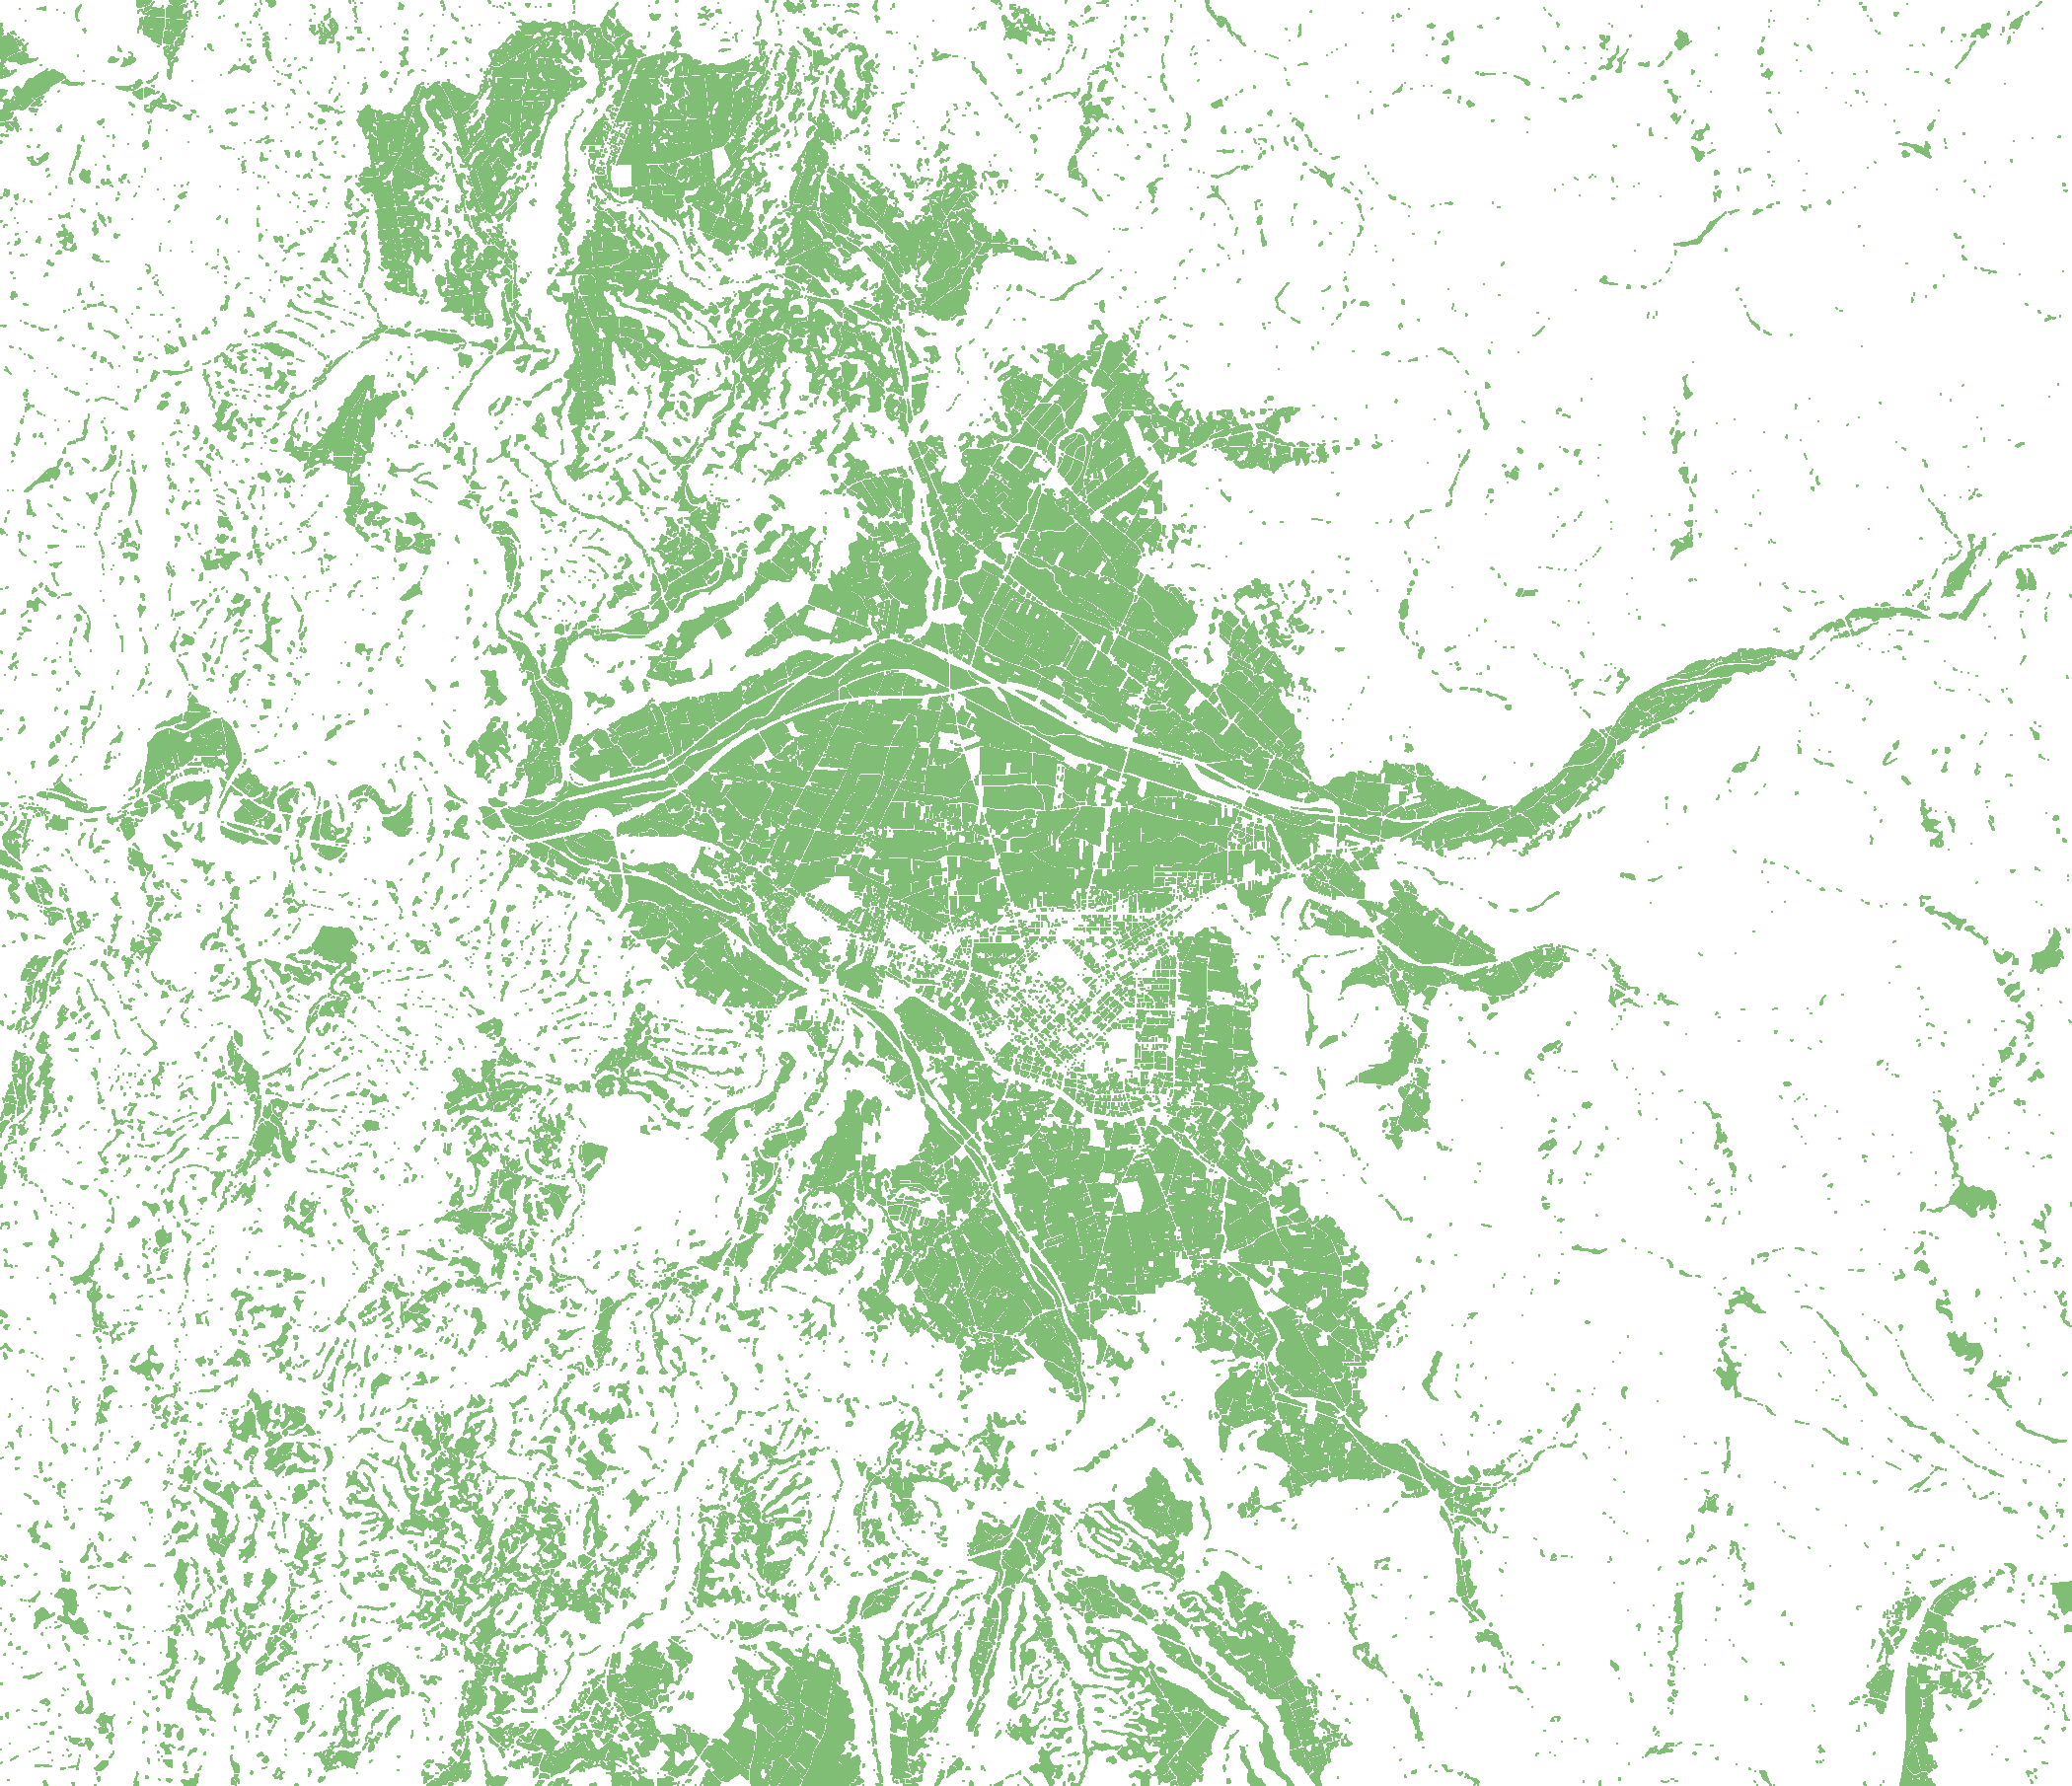
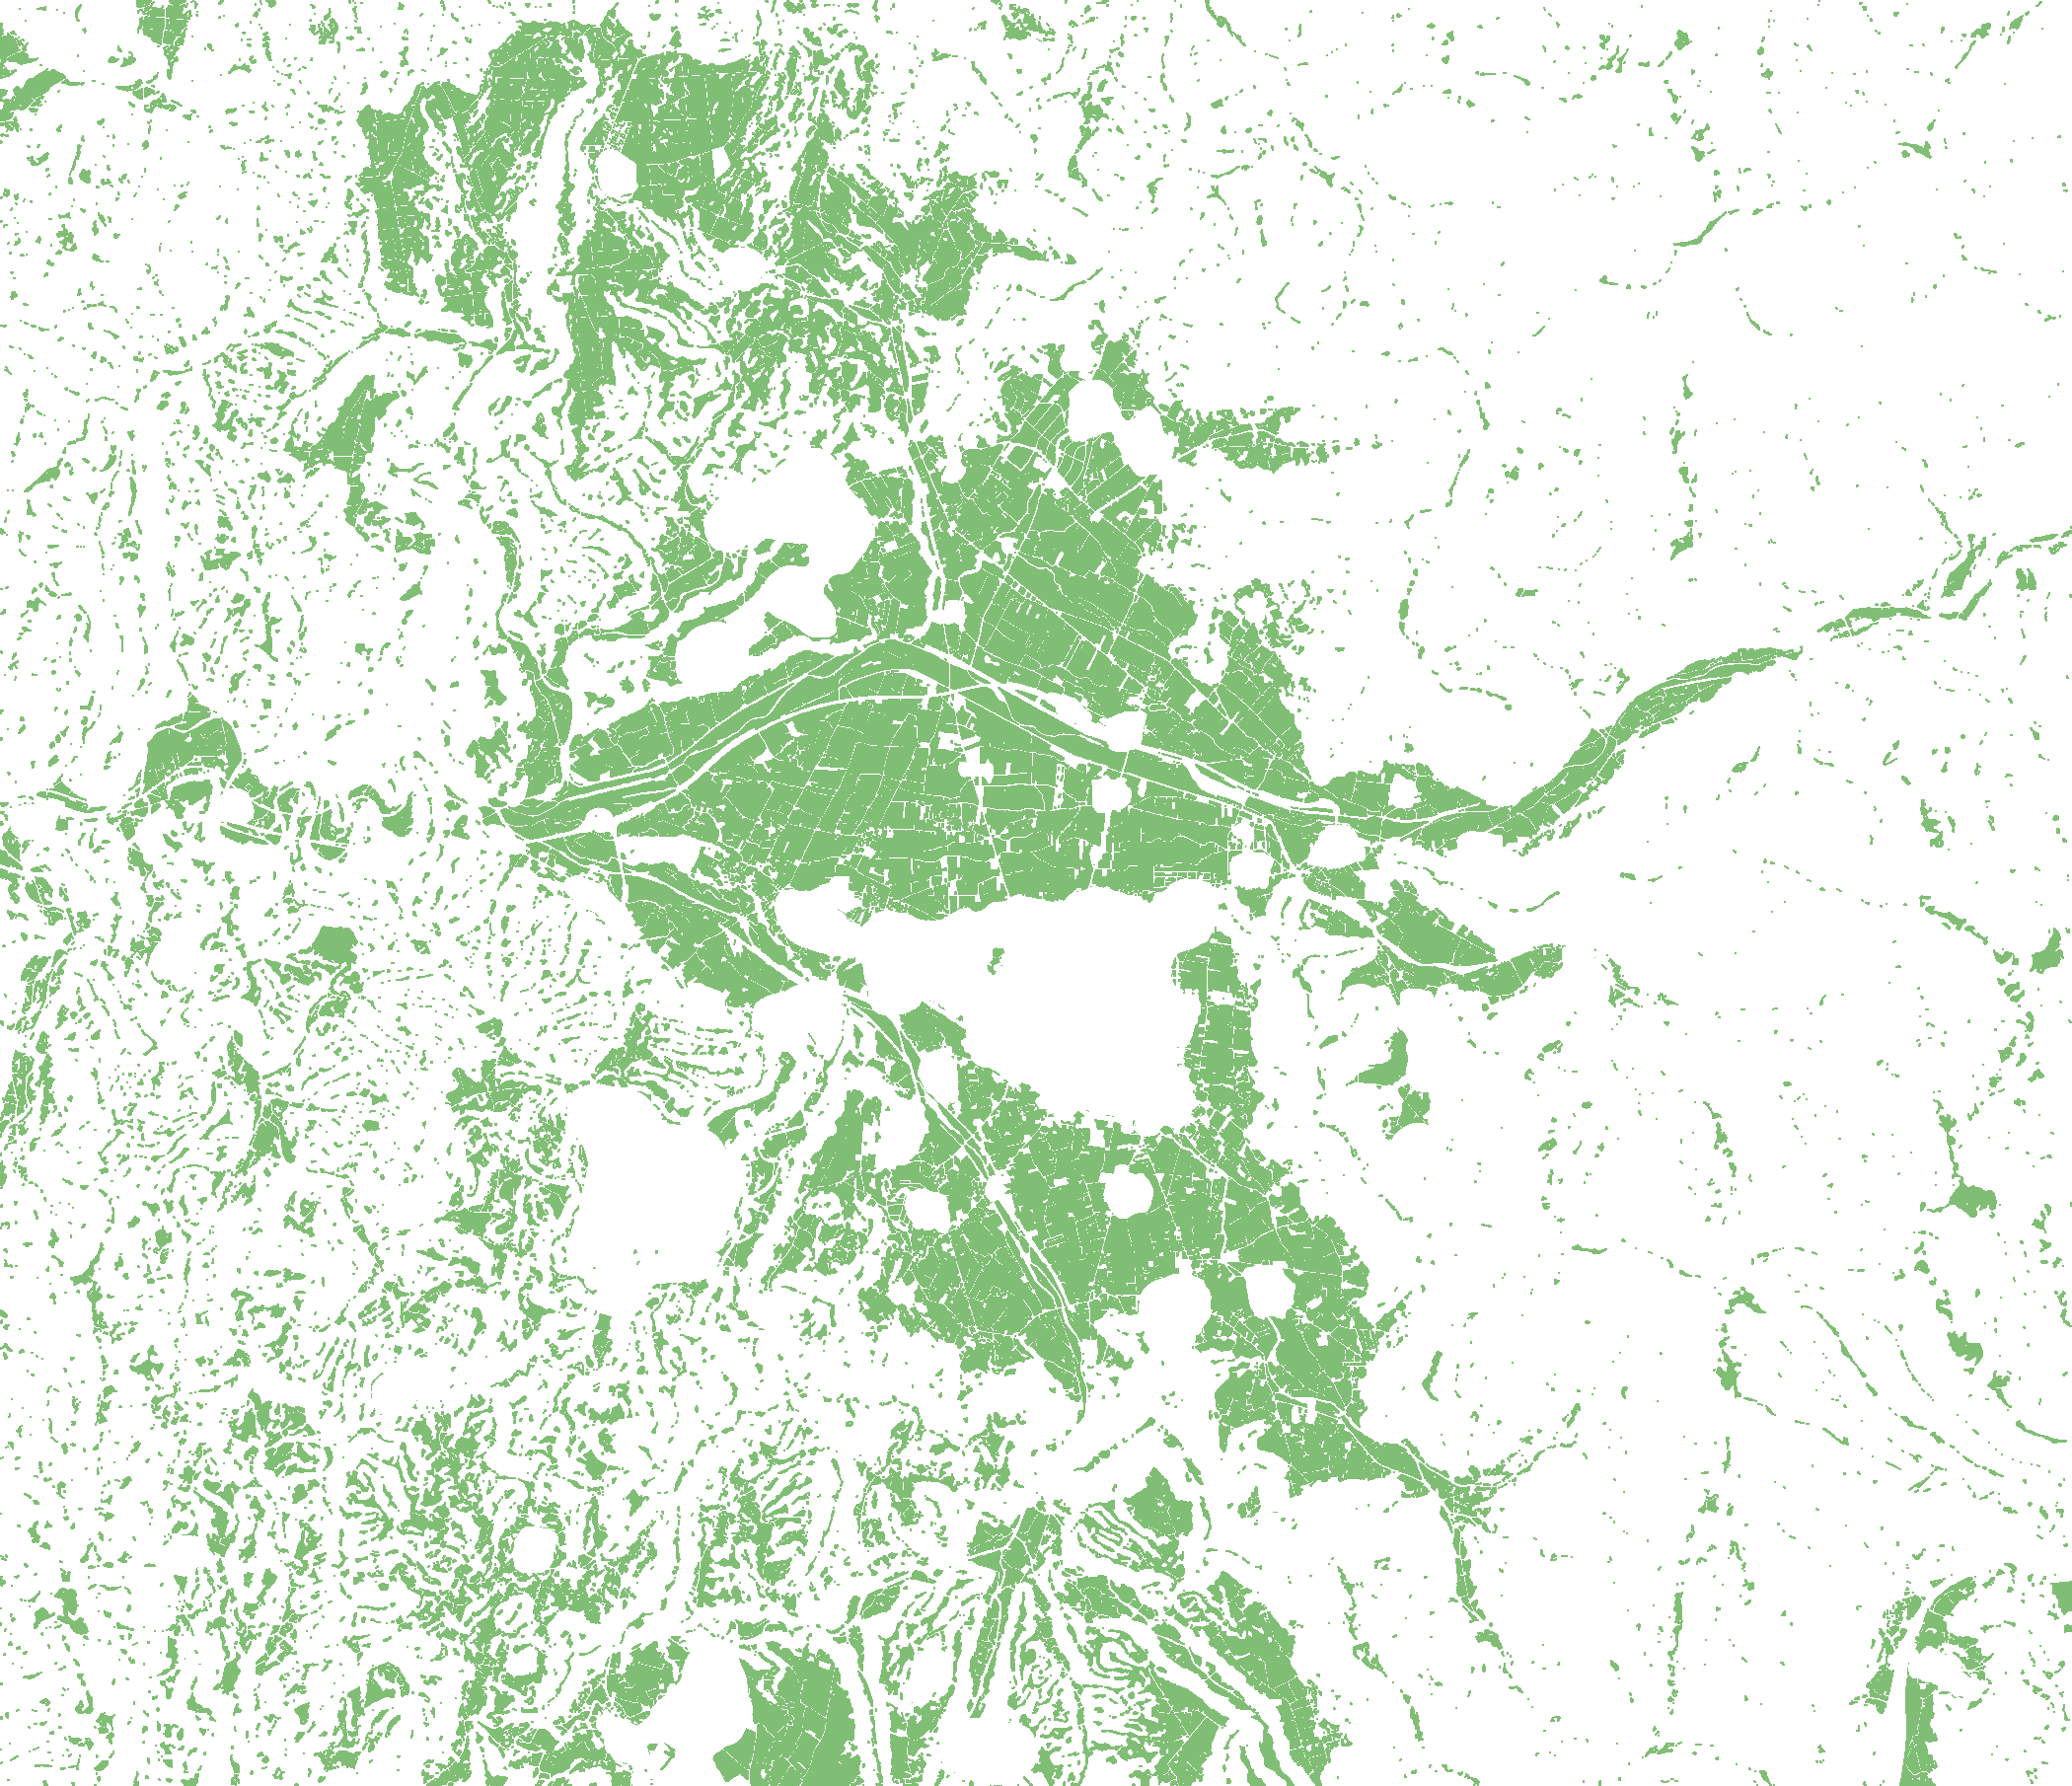
v23 十項修正部署（統一引擎 + 資料重生）

diff --git a/index.html b/index.html
@@ -73,6 +73,7 @@ canvas{display:block;touch-action:none}
     <div class="h">歷史地圖</div>
     <div class="togs" style="font-size:12px"><label><input type="radio" name="histmap" value="1904" checked> 1904 堡圖</label><label><input type="radio" name="histmap" value="1921"> 1921 大正</label><label><input type="radio" name="histmap" value="1989"> 1989 經建</label></div>
     <label style="margin-top:4px">史圖不透明度 <span id="hopval">100%</span><input type="range" id="hop" min="10" max="100" step="5" value="100"></label>
+    <div class="togs" style="font-size:12px;margin-top:4px"><label><input type="checkbox" id="ck_hlab" checked> 顯示地名</label></div>
   </div>
   <label>垂直誇張 <span id="exval">2.0×</span><input type="range" id="ex" min="0.5" max="4" step="0.1" value="2.0"></label>
   <button id="reset" class="full">重設視角</button>
@@ -1183,7 +1184,7 @@ var CFG = {
   baseElevDrop: 150,
   view: { facing: "N", home: { pos: [0, 28, 28], tgt: [0, 2, 0] } },
   controls: {
-    damping: 0.08, maxPolarAngle: 0.43, screenSpacePanning: true,
+    damping: 0.08, maxPolarAngle: 0.43, screenSpacePanning: false,  /* v23修1：右鍵平移鎖水平面 */
     minDistance: 0.25, maxDistance: 100, panSpeed: 1.8, zoomSpeed: 2.2, keyPanSpeed: 14
   },
   exaggeration: { default: 2.0, min: 0.5, max: 4.0 },
@@ -1199,7 +1200,8 @@ var CFG = {
       src: { lo: "sat.jpg", hi: "sat4096.jpg" } },
     { id: "hist", label: "歷史",   kind: "overlay",
       periods: [ {id:"1904",label:"1904 堡圖"},{id:"1921",label:"1921 大正"},{id:"1989",label:"1989 經建"} ],
-      defaultPeriod: "1904" }
+      defaultPeriod: "1904" },
+    { id: "lu",   label: "土地利用", kind: "landuse", overlay: "land" }  /* v23修10：土地利用模式 */
   ],
 
   overlays: {
@@ -1229,6 +1231,7 @@ var CFG = {
 
   labels: {
     superSample: 2,
+    histScale: 1.5,   /* v23修9：歷史模式地名放大 */
     peak: { fs: 36, fill: "#5d4014", hh: 0.80, off: 0.55, prefix: "▲",
             tierByEle: [ [2000, 0], [1200, 1] ], tierElse: 2 }
   },
@@ -1523,7 +1526,7 @@ function makeSprite(text,fs,fill,hh){
 function addLabel(name,lon,lat,fs,fill,hh,off,tier){
   var x=lonToX(lon),z=latToZ(lat); if(!inside(x,z)) return;
   var sp=makeSprite(name,fs,fill,hh); gLabels.add(sp);
-  labelItems.push({sp:sp,x:x,z:z,ground:sampleElev(x,z),off:off,tier:tier});
+  labelItems.push({sp:sp,x:x,z:z,ground:sampleElev(x,z),off:off,tier:tier,bsx:sp.scale.x,bsy:sp.scale.y});
 }
 /* ground markers (shancheng: red-dot-on-white-ring for 5 townships) */
 var groundMarkers=[];
@@ -1873,6 +1876,7 @@ var _ckRoad=document.getElementById('ck_road'); if(_ckRoad) _ckRoad.addEventList
 var _ckWat=document.getElementById('ck_wat'); if(_ckWat) _ckWat.addEventListener('change',function(e){ gWater.visible=e.target.checked; });
 var _ckPeak=document.getElementById('ck_peak'); if(_ckPeak) _ckPeak.addEventListener('change',function(e){ if(gPeaks) gPeaks.visible=(mode==='cont')&&e.target.checked; });
 var _ckSlab=document.getElementById('ck_slab'); if(_ckSlab) _ckSlab.addEventListener('change',function(e){ if(mode==='sat') gLabels.visible=e.target.checked; });
+var _ckHlab=document.getElementById('ck_hlab'); if(_ckHlab) _ckHlab.addEventListener('change',function(e){ if(mode==='hist') gLabels.visible=e.target.checked; });  /* v23修9 */
 if(HAS_STORY){
   var _stOrder2=CFG.story.order||Object.keys(CFG.story.groups);
   _stOrder2.forEach(function(g){ var el=document.getElementById('ck_'+g); if(el) el.addEventListener('change',function(e){ myGrp[g].visible=e.target.checked; }); });
@@ -1894,6 +1898,10 @@ function syncOverlays(){
     MO[_mk].visible=vis;
     if(vis) ensureTex(MO[_mk],CFG.overlays[_mk].src);
   }
+  /* landuse 專屬模式（puli mode_lu）：進入該模式時強制顯示 land 疊圖 */
+  for(var _lm=0;_lm<CFG.modes.length;_lm++){ var _md=CFG.modes[_lm];
+    if(_md.kind==='landuse'){ var _lk=_md.overlay||'land';
+      if(MO[_lk]&&mode===_md.id){ MO[_lk].visible=true; ensureTex(MO[_lk],CFG.overlays[_lk].src); } } }
   var luLeg=document.getElementById('lu_legend');
   if(luLeg&&MO.land) luLeg.style.display=MO.land.visible?'block':'none';
   if(gShields){ var ckR=findCk('road'); gShields.visible=(mode==='theme')&&ckR&&ckR.checked; }
@@ -1929,8 +1937,9 @@ function setMode(m){ mode=m;
   if(curMode&&curMode.colorAttr==='grey'&&colAttrGrey){ geo.setAttribute('color',colAttrGrey); colAttrGrey.needsUpdate=true; }
   else { geo.setAttribute('color',colAttrHyps); colAttrHyps.needsUpdate=true; }
   mesh.visible=true;
-  gVect.visible=(m==='cont'||m==='theme');
-  if(m==='cont'){
+  var _isLu=!!(curMode&&curMode.kind==='landuse');
+  gVect.visible=(m==='cont'||m==='theme'||_isLu);
+  if(m==='cont'||_isLu){
     var w=$id('ck_wat'); if(w) gWater.visible=w.checked;
     var r=$id('ck_road'); if(r) gRoads.visible=r.checked;
     var l=$id('ck_lab'); gLabels.visible=l?l.checked:true;
@@ -1940,19 +1949,23 @@ function setMode(m){ mode=m;
   } else if(m==='sat'){
     var sl=$id('ck_slab'); gLabels.visible=sl?sl.checked:false;
   } else {
-    gLabels.visible=true;
+    var hl=$id('ck_hlab'); gLabels.visible=hl?hl.checked:true;  /* v23修9：歷史模式地名開關 */
   }
+  /* v23修9：歷史模式地名放大 */
+  var _hsc=(m==='hist'&&CFG.labels&&CFG.labels.histScale)?CFG.labels.histScale:1;
+  for(var _li2=0;_li2<labelItems.length;_li2++){ var _it2=labelItems[_li2]; if(_it2.bsx) _it2.sp.scale.set(_it2.bsx*_hsc,_it2.bsy*_hsc,1); }
   if(gPeaks){ var pk=$id('ck_peak'); gPeaks.visible=(m==='cont')&&pk&&pk.checked; }
   syncOverlays();
   var _panels=['contopt','themeopt','histopt','satopt','thm_row','hist_row'];
   for(var _di=0;_di<_panels.length;_di++){ var pe=$id(_panels[_di]); if(pe) pe.style.display='none'; }
-  var _legends=['lg_hyps','lg_theme','lg_hist'];
+  var _legends=['lg_hyps','lg_theme','lg_hist','lg_lu'];
   for(var _ei=0;_ei<_legends.length;_ei++){ var le=$id(_legends[_ei]); if(le) le.style.display='none'; }
   var legendEl=$id('legend');
   if(m==='cont'){ var cp=$id('contopt')||$id('thm_row'); if(cp) cp.style.display='block'; if(legendEl) legendEl.style.display='block'; var lh=$id('lg_hyps'); if(lh) lh.style.display='block'; }
   else if(m==='sat'){ var sp=$id('satopt'); if(sp) sp.style.display='block'; if(legendEl) legendEl.style.display='none'; }
   else if(m==='theme'){ var tp=$id('themeopt'); if(tp) tp.style.display='block'; if(legendEl) legendEl.style.display='block'; var lt=$id('lg_theme'); if(lt) lt.style.display='block'; }
   else if(m==='hist'){ var hp=$id('histopt')||$id('hist_row'); if(hp) hp.style.display='block'; if(legendEl) legendEl.style.display='block'; var lhi=$id('lg_hist'); if(lhi) lhi.style.display='block'; }
+  else if(_isLu){ if(legendEl) legendEl.style.display='block'; var llu=$id('lg_lu'); if(llu) llu.style.display='block'; }  /* v23修10 */
 }
 for(var _fi=0;_fi<CFG.modes.length;_fi++){(function(mid){
   var btn=$id('mode_'+mid); if(btn) btn.addEventListener('click',function(){ setMode(mid); });